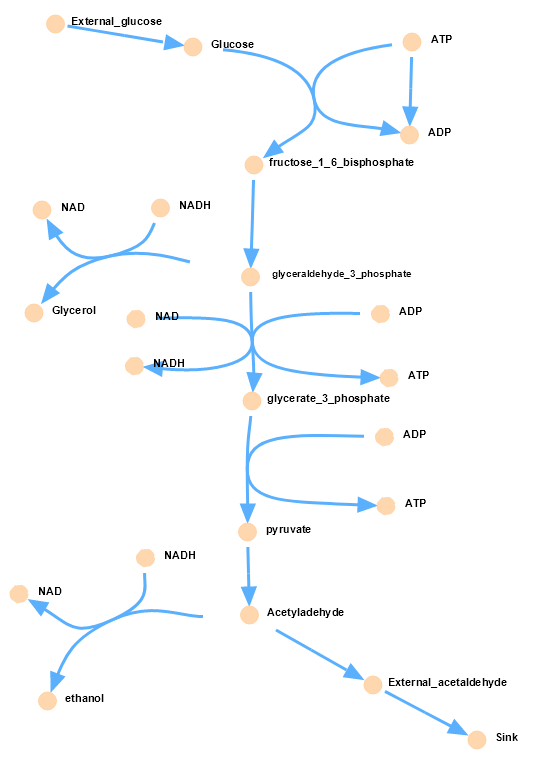
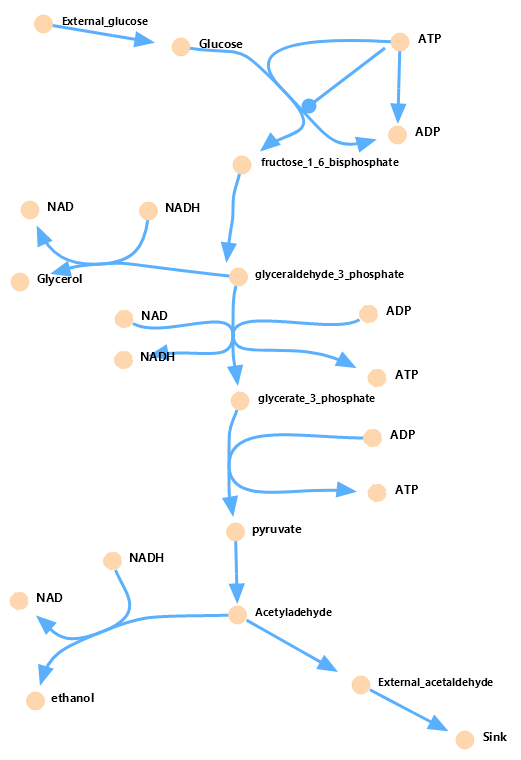
Deployed b491e00 with MkDocs version: 1.1.2

diff --git a/Introduction.html b/Introduction.html
@@ -195,7 +195,7 @@ different shapes of nodes with different border colors. x_1 and x_5 are examples
 <li><p>An example with long text contents.
 Its animation is also available at <a class="reference external" href="https://youtu.be/zF3_fkDp2Xk">https://youtu.be/zF3_fkDp2Xk</a>.</p></li>
 </ol>
-<a class="reference internal image-reference" href="_images/Jana_WolfGlycolysis.png"><img alt="_images/Jana_WolfGlycolysis.png" src="_images/Jana_WolfGlycolysis.png" style="width: 400px;" /></a>
+<a class="reference internal image-reference" href="_images/Jana_WolfGlycolysis-corrected.png"><img alt="_images/Jana_WolfGlycolysis-corrected.png" src="_images/Jana_WolfGlycolysis-corrected.png" style="width: 400px;" /></a>
 </div>
 </div>
 

diff --git a/html/Introduction.html b/html/Introduction.html
@@ -195,7 +195,7 @@ different shapes of nodes with different border colors. x_1 and x_5 are examples
 <li><p>An example with long text contents.
 Its animation is also available at <a class="reference external" href="https://youtu.be/zF3_fkDp2Xk">https://youtu.be/zF3_fkDp2Xk</a>.</p></li>
 </ol>
-<a class="reference internal image-reference" href="_images/Jana_WolfGlycolysis.png"><img alt="_images/Jana_WolfGlycolysis.png" src="_images/Jana_WolfGlycolysis.png" style="width: 400px;" /></a>
+<a class="reference internal image-reference" href="_images/Jana_WolfGlycolysis-corrected.png"><img alt="_images/Jana_WolfGlycolysis-corrected.png" src="_images/Jana_WolfGlycolysis-corrected.png" style="width: 400px;" /></a>
 </div>
 </div>
 
